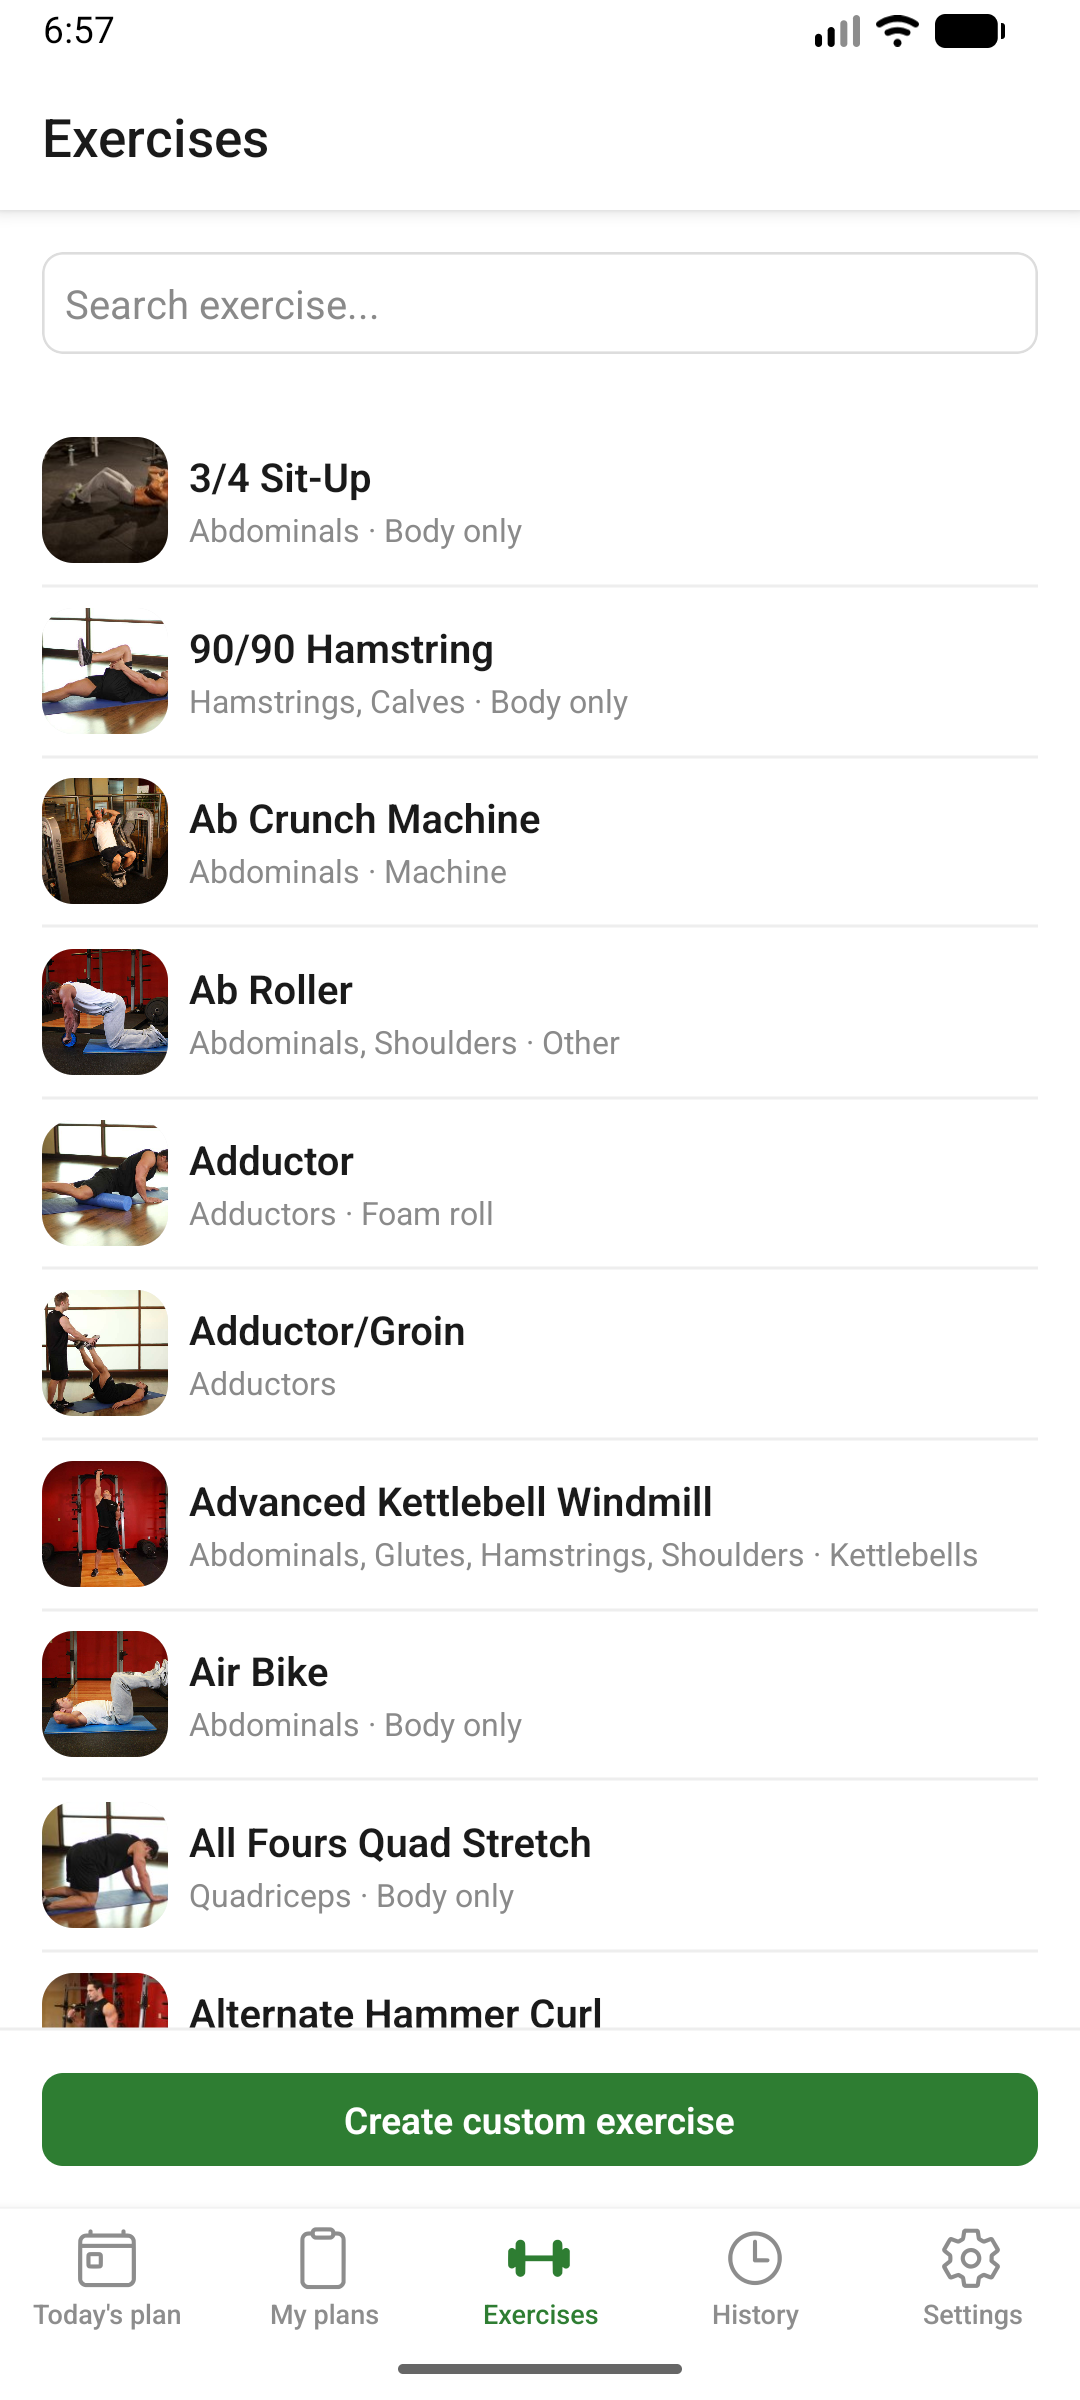
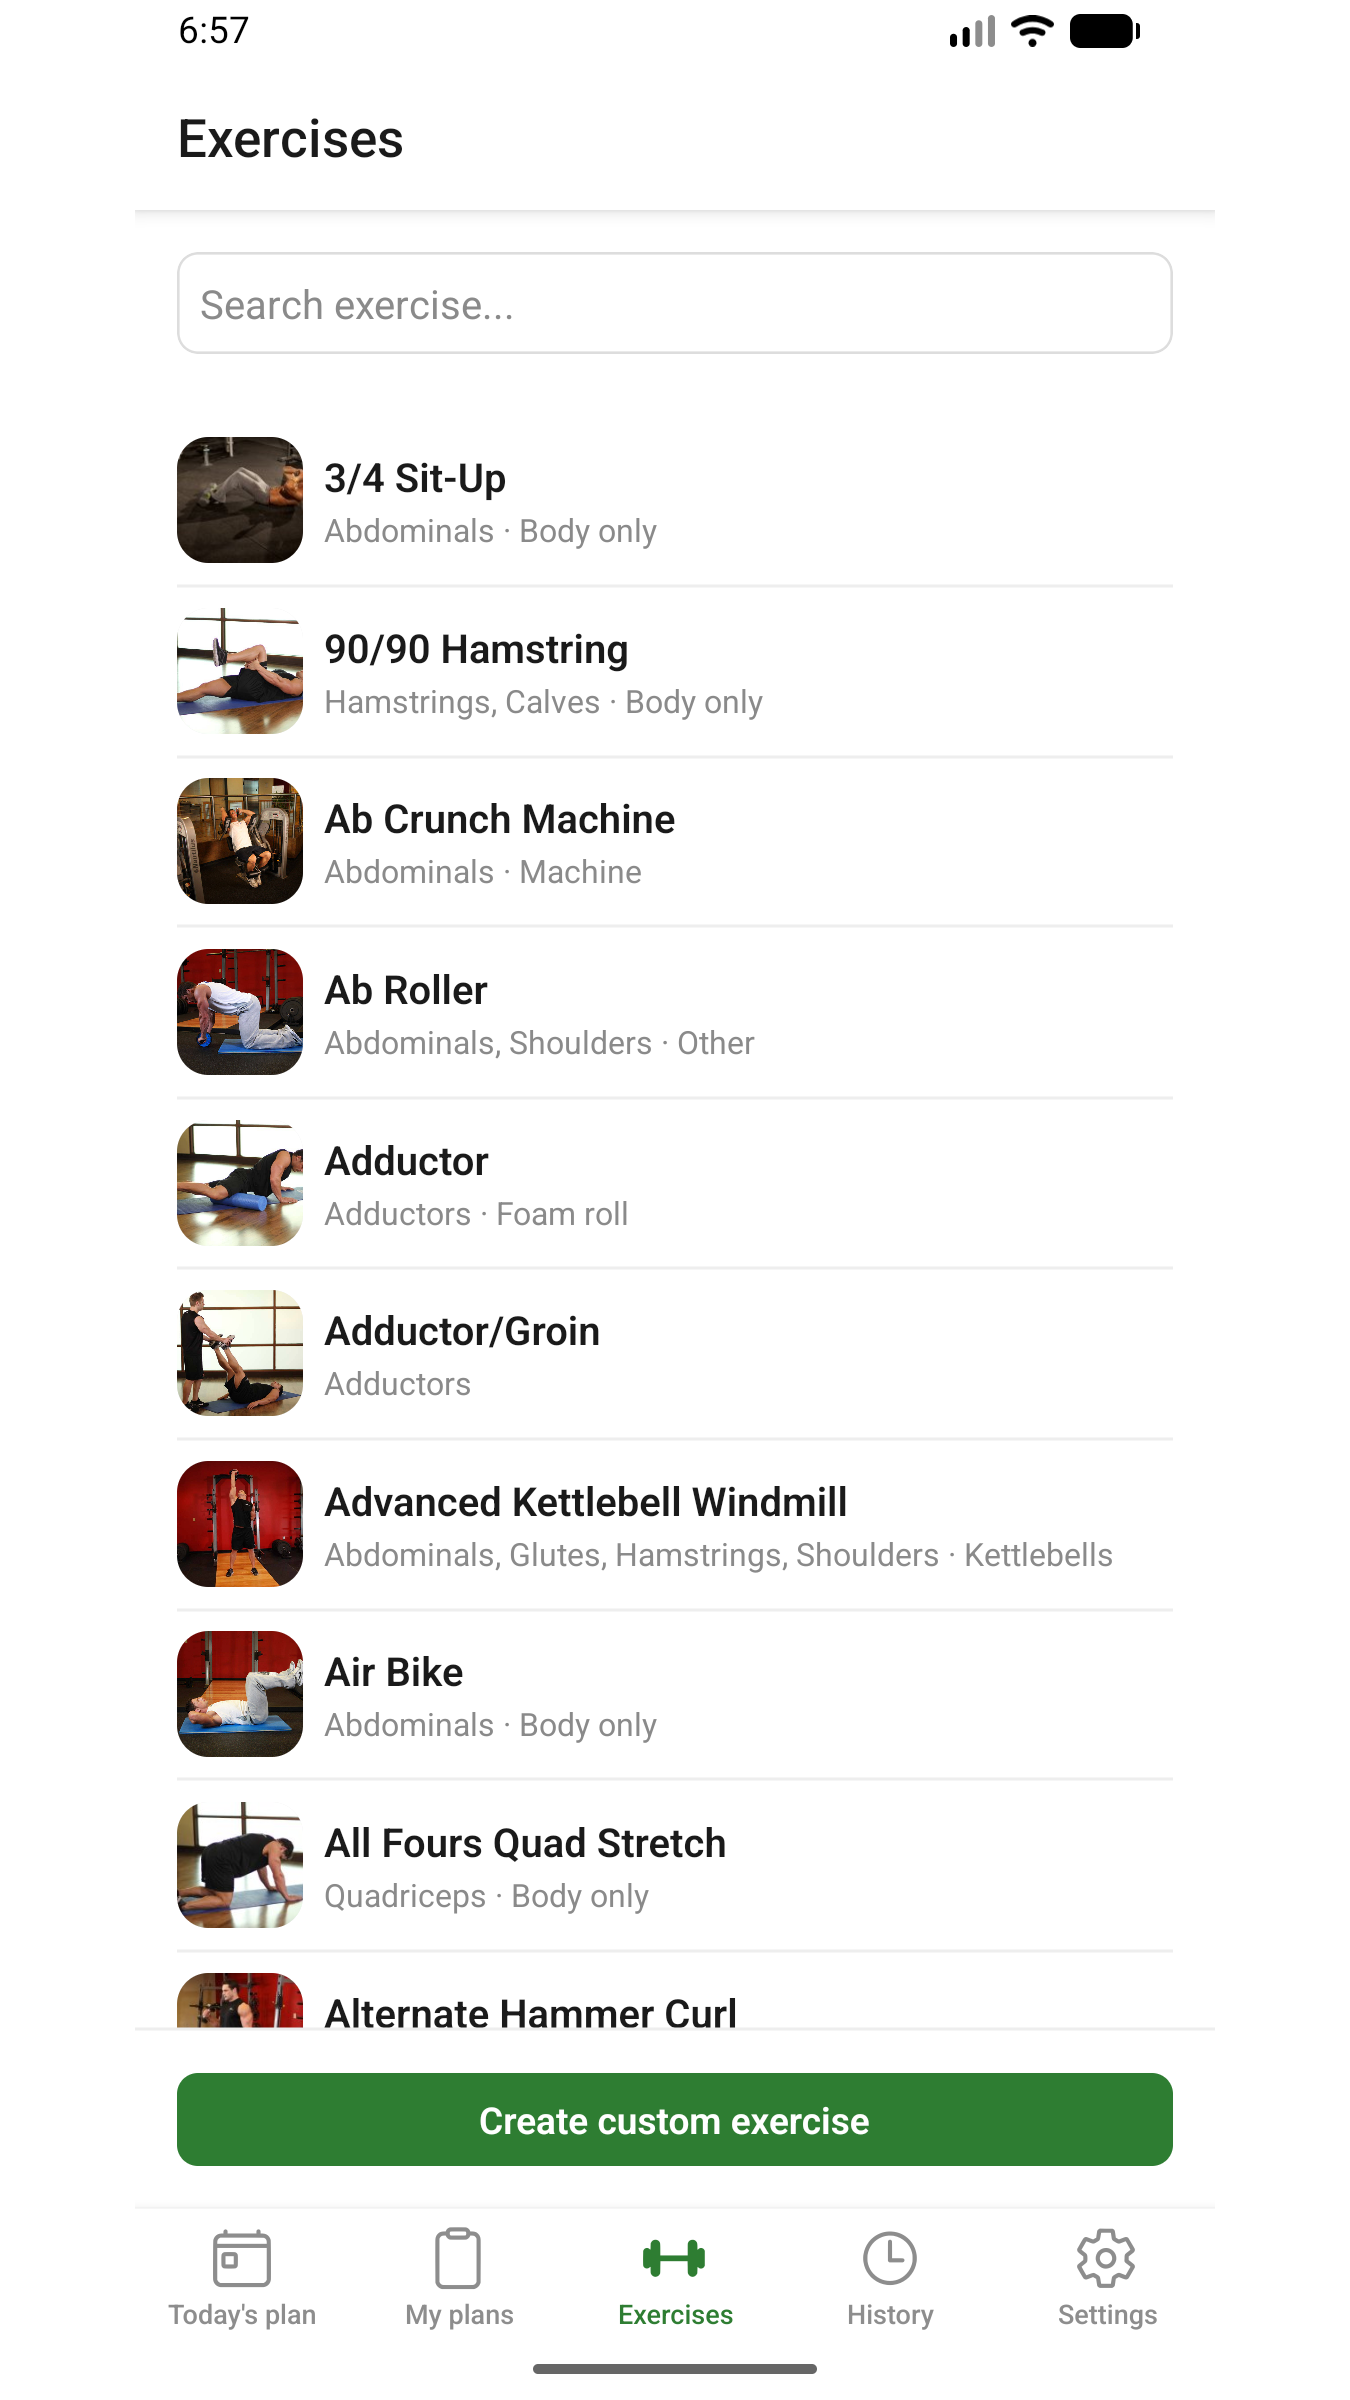
Ajustar las capturas de Play Store a proporcion 9:16
El uploader de Play Console exige 16:9-9:16 para capturas de telefono;
el emulador capturaba en 1080x2400 (20:9), fuera de rango. Se agrega
pillarbox blanco a los costados (invisible, mismo fondo que la app)
hasta 1350x2400 = 9:16 exacto, sin recortar contenido.

Parte de #38

Claude-Session: https://claude.ai/code/session_01NiTVvvL35n2iUcrgogusV8

diff --git a/android/app/store-assets/README.md b/android/app/store-assets/README.md
@@ -20,6 +20,14 @@ cuando se cree la ficha de la app — no se usa en el build de la app.
   una ficha localizada (hoy están en inglés porque el emulador estaba en
   ese idioma).
 
+  **Proporción 9:16**: el emulador captura en 1080x2400 (20:9), fuera del
+  rango 16:9–9:16 que exige el uploader de Play Console para capturas de
+  teléfono. Se corrigió agregando pillarbox blanco a los costados (queda
+  invisible porque el fondo de la app es blanco) hasta 1350x2400 = 9:16
+  exacto, sin recortar ningún contenido. Regenerar así tras sacar capturas
+  nuevas del emulador:
+  `magick captura-original.png -gravity center -background white -extent 1350x2400 screenshot-N-nombre.png`
+
 ## Textos de la ficha (nombre, descripciones)
 
 **Nombre de la app** (máx. 30 caracteres): `Gym Apk`
